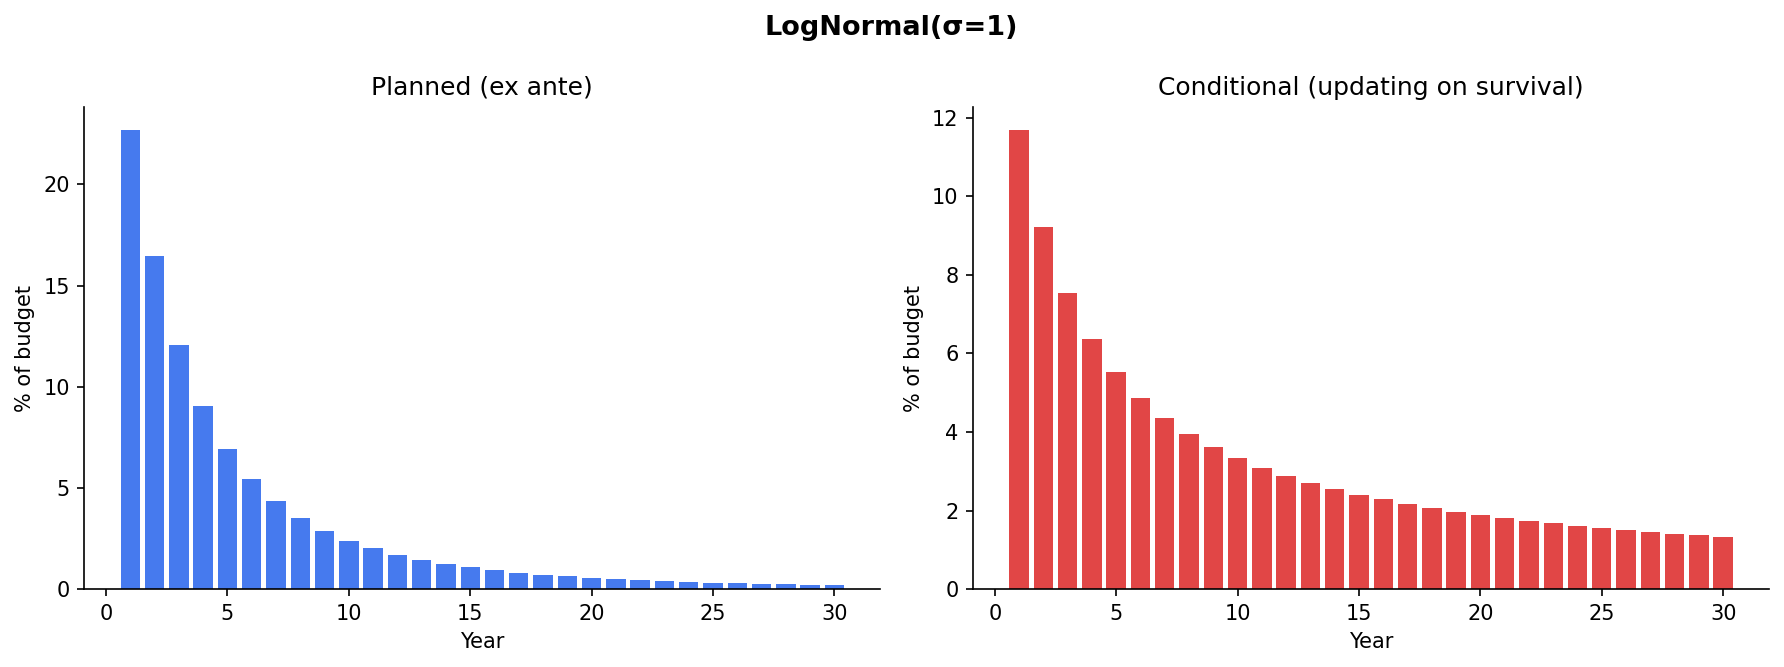
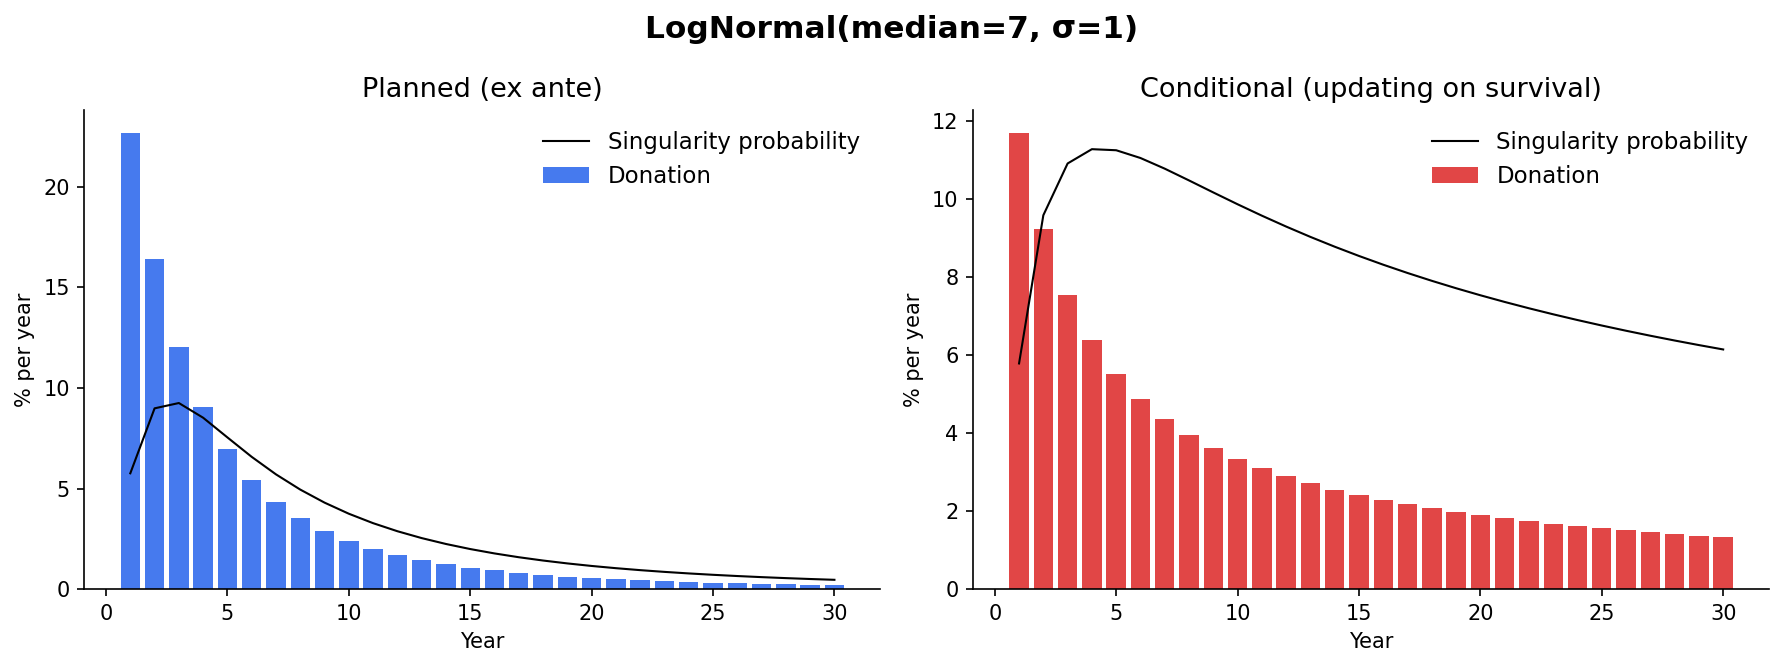
improvements to donation_schedule

diff --git a/donation_schedule.py b/donation_schedule.py
@@ -44,18 +44,30 @@ def donation_schedule(dist="pareto", years=30, **p):
     return t.astype(int), d / d.sum(), cond / cond.sum()
 
 
-def plot(title, t, planned, cond, filename="donation_schedule.png"):
+def plot(title, t, planned, cond, dist_obj, filename="donation_schedule.png"):
     import matplotlib.pyplot as plt
 
+    # Discretize PDF to per-year probability mass on the same x-grid as the bars,
+    # so % probability mass per year is directly comparable to % of budget per year.
+    edges_lo, edges_hi = t - 0.5, t + 0.5
+    pmf = dist_obj.cdf(edges_hi) - dist_obj.cdf(edges_lo)
+    # Conditional pmf: P(singularity in year t | survived to t-0.5)
+    surv_lo = np.maximum(dist_obj.sf(edges_lo), 1e-15)
+    cond_pmf = pmf / surv_lo
+
     fig, (a1, a2) = plt.subplots(1, 2, figsize=(12, 4.5))
-    for ax, data, label, color in [
-        (a1, planned, "Planned (ex ante)", "#2563eb"),
-        (a2, cond, "Conditional (updating on survival)", "#dc2626"),
+    for ax, data, overlay, label, color in [
+        (a1, planned, pmf, "Planned (ex ante)", "#2563eb"),
+        (a2, cond, cond_pmf, "Conditional (updating on survival)", "#dc2626"),
     ]:
-        ax.bar(t, data * 100, color=color, alpha=0.85, width=0.8)
-        ax.set(xlabel="Year", ylabel="% of budget", title=label)
+        ax.bar(t, data * 100, color=color, alpha=0.85, width=0.8, label="Donation")
+        ax.plot(t, overlay * 100, color="black", linewidth=1,
+                marker="o", markersize=0, label="Singularity probability")
+        ax.set(xlabel="Year", ylabel="% per year")
+        ax.set_title(label, fontsize=14)
         ax.spines[["top", "right"]].set_visible(False)
-    fig.suptitle(title, fontsize=13, fontweight="bold")
+        ax.legend(frameon=False, fontsize=11)
+    fig.suptitle(title, fontsize=16, fontweight="bold")
     plt.tight_layout()
     plt.savefig(filename, dpi=150, bbox_inches="tight")
     print(f"  Saved {filename}")
@@ -63,9 +75,12 @@ def plot(title, t, planned, cond, filename="donation_schedule.png"):
 
 if __name__ == "__main__":
     median_timeline = 7
+    alpha = 1.5
+    t_min = 3
+    sigma = 1
     cases = [
-        ("Pareto(α=1.5)", "pareto", dict(alpha=1.5, t_min=3, median=median_timeline)),
-        ("LogNormal(σ=1)", "lognormal", dict(mu=np.log(median_timeline), sigma=1)),
+        (f"Pareto(median={median_timeline}, min={t_min}, α={alpha})", "pareto", dict(alpha=alpha, t_min=t_min, median=median_timeline)),
+        (f"LogNormal(median={median_timeline}, σ={sigma})", "lognormal", dict(mu=np.log(median_timeline), sigma=sigma)),
     ]
     for title, dist, params in cases:
         if dist == "pareto":
@@ -83,4 +98,4 @@ if __name__ == "__main__":
         t, planned, cond = donation_schedule(dist, 30, **params)
         for y, p, c in zip(t, planned, cond):
             print(f"  Year {y:2d}:  planned {p*100:6.2f}%   conditional {c*100:6.2f}%")
-        plot(title, t, planned, cond, f"images/donation_schedule_{dist}.png")
+        plot(title, t, planned, cond, d, f"images/donation_schedule_{dist}.png")
